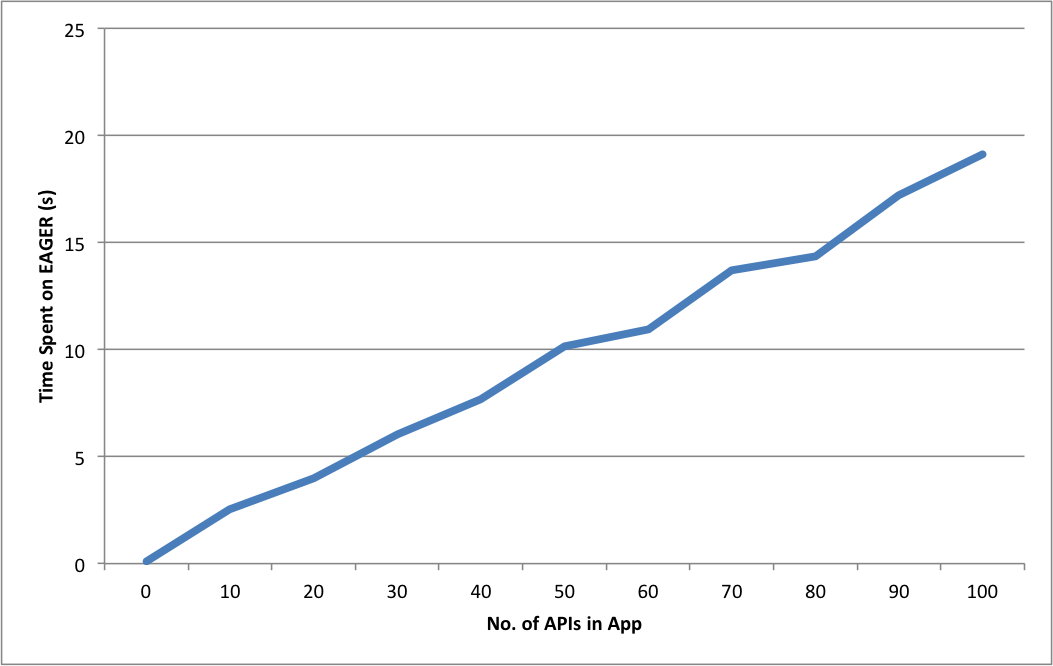
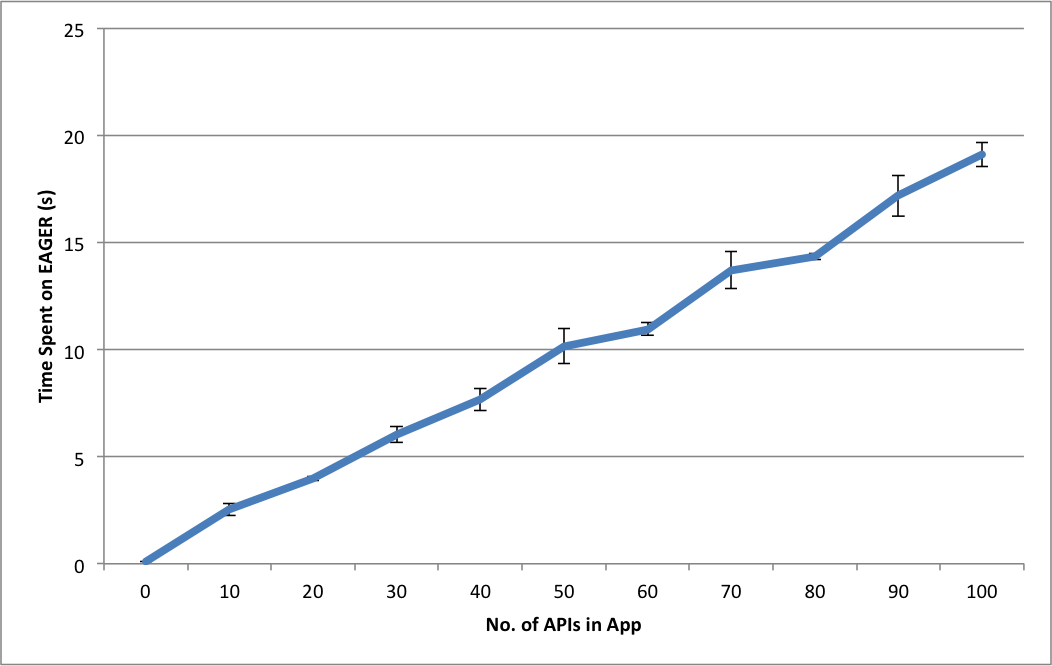
updated figures - adding error bars

diff --git a/Eager/paper/paper.tex b/Eager/paper/paper.tex
@@ -6,7 +6,7 @@
 \usepackage{url}
 %\usepackage{flushend}
 \newcommand{\xmark}{\ding{55}}%
-\usepackage[lined,boxed]{algorithm2e}
+%\usepackage[lined,boxed]{algorithm2e}
 \newcommand{\ignore}[1]{}
 
 \usepackage{graphicx}
